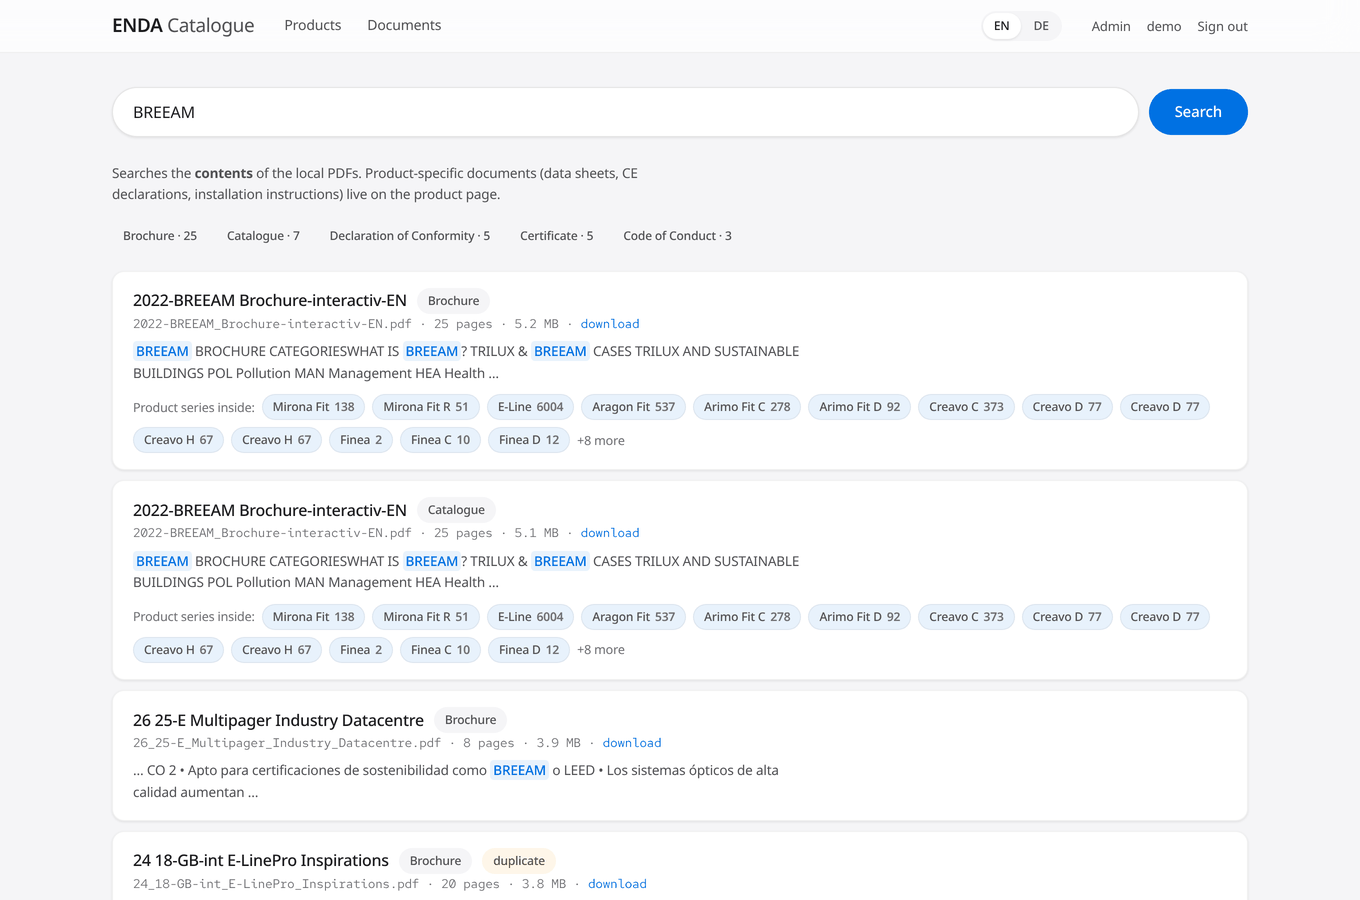
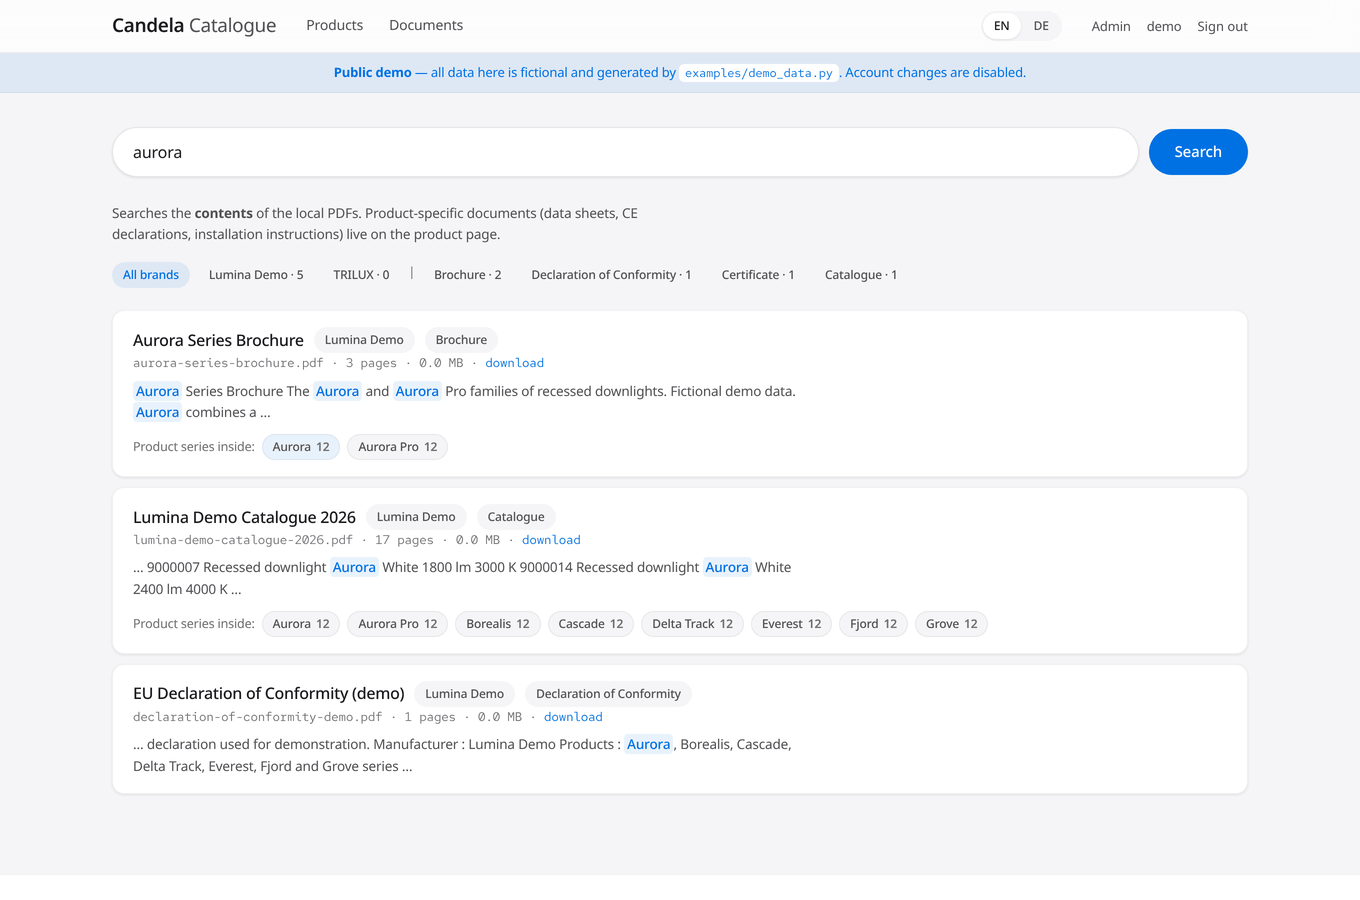
Rename the project to Candela
"ENDA" was the distributor's company name, which does not belong on a general
purpose BMEcat/ETIM tool. Candela — the SI unit of luminous intensity — keeps the
lighting connection without naming a company.

Renamed throughout: the README, the interface brand mark, the systemd unit
samples, the Docker image and the licence holder. The screenshots were retaken,
and now come from the public demo instead of a real manufacturer feed, so the
article numbers, prices and documents in them are all fictional.

diff --git a/web/templates/product.html b/web/templates/product.html
@@ -66,9 +66,15 @@
       </figure>
     {% endfor %}
     </div>
+    {% if demo_mode %}
+    <p class="note">In the demo these are locally generated placeholders. In a real
+      installation they are loaded from the manufacturer's own servers. Click to open
+      the full size; the downloadable file list is below.</p>
+    {% else %}
     <p class="note">Images are loaded from {{ brand_names.get(p.brand, p.brand) }}'s own
       servers, so an internet connection is needed to view them. Click to open the full
       size; the downloadable file list is below.</p>
+    {% endif %}
   </section>
   {% endif %}
 

diff --git a/web/templates/admin.html b/web/templates/admin.html
@@ -47,7 +47,7 @@
   </div>
   {% endif %}
   <p class="note">The check runs automatically on the 5th of each month
-    (<code>enda-update.timer</code>). To run it by hand:
+    (<code>candela-update.timer</code>). To run it by hand:
     <code>.venv/bin/python etl/fetch_trilux.py --rebuild</code></p>
   {% else %}
   <p class="note">The automatic update has not run yet.</p>

diff --git a/web/templates/base.html b/web/templates/base.html
@@ -11,7 +11,7 @@
 <body>
 <header>
   <div class="bar-inner">
-    <a class="brand" href="/">ENDA <span>Catalogue</span></a>
+    <a class="brand" href="/">Candela <span>Catalogue</span></a>
     <nav>
       <a href="/">Products</a>
       <a href="/documents">Documents</a>

diff --git a/web/templates/login.html b/web/templates/login.html
@@ -10,7 +10,7 @@
 <body class="login-body">
   <main class="login-wrap">
     <div class="login-card">
-      <h1>ENDA <span>Catalogue</span></h1>
+      <h1>Candela <span>Catalogue</span></h1>
       <p class="login-sub">Sign in to continue.</p>
 
       {% if setup %}

diff --git a/web/app.py b/web/app.py
@@ -1,5 +1,5 @@
 #!/usr/bin/env python3
-"""Product and document catalogue — web search interface.
+"""Candela — product and document catalogue, web search interface.
 
 Run with:
     ./run.sh
@@ -67,7 +67,7 @@ DEMO_MODE = os.environ.get("DEMO_MODE", "").lower() not in ("", "0", "false", "n
 DEMO_USER = os.environ.get("DEMO_USER", "demo")
 DEMO_PASSWORD = os.environ.get("DEMO_PASSWORD", "demo1234demo")
 
-app = FastAPI(title="Catalogue", docs_url="/api/docs", redoc_url=None)
+app = FastAPI(title="Candela", docs_url="/api/docs", redoc_url=None)
 app.mount("/static", StaticFiles(directory=os.path.join(WEB, "static")), name="static")
 templates = Jinja2Templates(directory=os.path.join(WEB, "templates"))
 

diff --git a/README.md b/README.md
@@ -1,4 +1,4 @@
-# ENDA — Product and Document Catalogue
+# Candela — Product and Document Catalogue
 
 A catalogue search tool for lighting distributors. It ingests **BMEcat 2005 / ETIM**
 product data together with PDF documents and builds a single **SQLite** database with
@@ -20,8 +20,8 @@ it into a searchable database in about a minute.
 Or run your own copy in one command:
 
 ```bash
-git clone https://github.com/Maria-Ftaieh/enda-catalogue-db.git
-cd enda-catalogue-db
+git clone https://github.com/Maria-Ftaieh/candela-catalogue.git
+cd candela-catalogue
 docker compose up
 ```
 
@@ -105,8 +105,8 @@ product series each document covers:
 
 ![Administration](docs/admin.png)
 
-> The screenshots show real catalogue rows from a TRILUX feed, prices included. They
-> are illustrative only; see [About the prices](#about-the-prices).
+> The screenshots are taken from the live demo, so everything in them — the brand,
+> the article numbers, the prices and the documents — is fictional.
 
 ---
 
@@ -259,7 +259,7 @@ python3 -c "import sqlite3; sqlite3.connect(':memory:').execute('create virtual 
 ### 2. Get the code and create the virtualenv
 
 ```bash
-git clone <repository-url> enda && cd enda
+git clone <repository-url> candela && cd candela
 python3 -m venv .venv
 .venv/bin/pip install --upgrade pip
 .venv/bin/pip install -r requirements.txt
@@ -380,7 +380,7 @@ script makes **at most one** login attempt per run and **stops itself after two
 consecutive failures**, refusing to try again until `--reset` is passed. It therefore
 cannot lock the account.
 
-For monthly runs use `examples/enda-update.{service,timer}`. This automation is
+For monthly runs use `examples/candela-update.{service,timer}`. This automation is
 **TRILUX-specific**; every manufacturer portal differs, so other brands' files are
 copied in by hand.
 
@@ -411,8 +411,8 @@ The application only listens on `127.0.0.1`; the reverse proxy is the door to th
 outside.
 
 ```bash
-cp examples/enda.service /etc/systemd/system/
-systemctl daemon-reload && systemctl enable --now enda
+cp examples/candela.service /etc/systemd/system/
+systemctl daemon-reload && systemctl enable --now candela
 
 dnf install -y caddy
 cp examples/Caddyfile.example /etc/caddy/Caddyfile   # edit the domain
